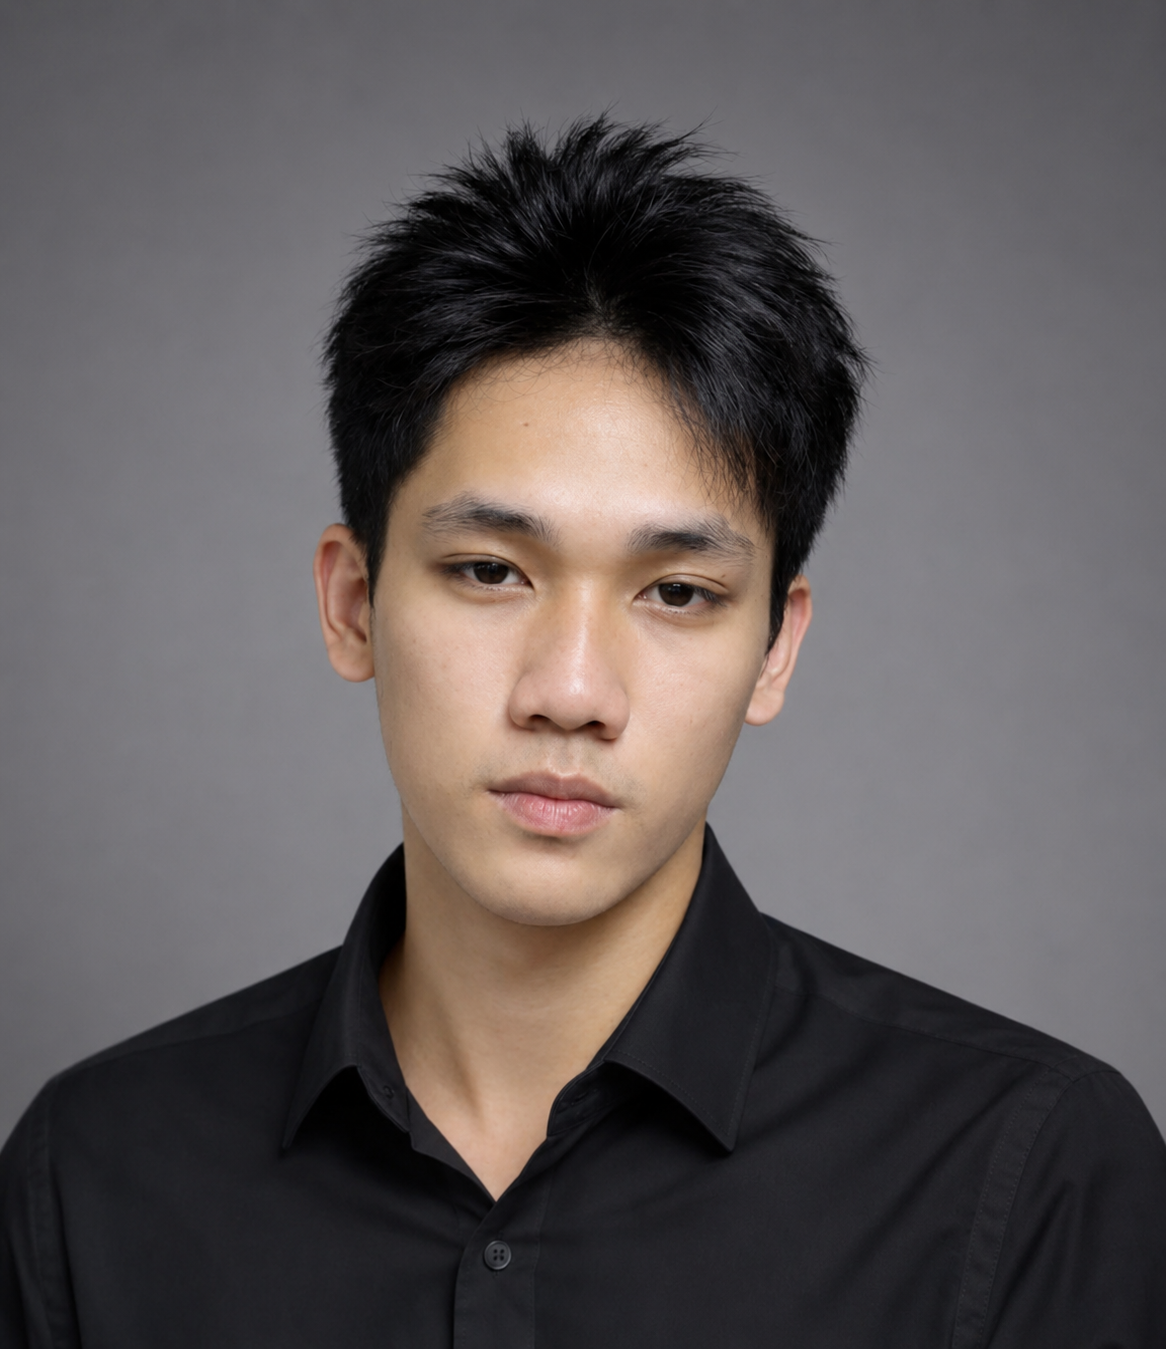
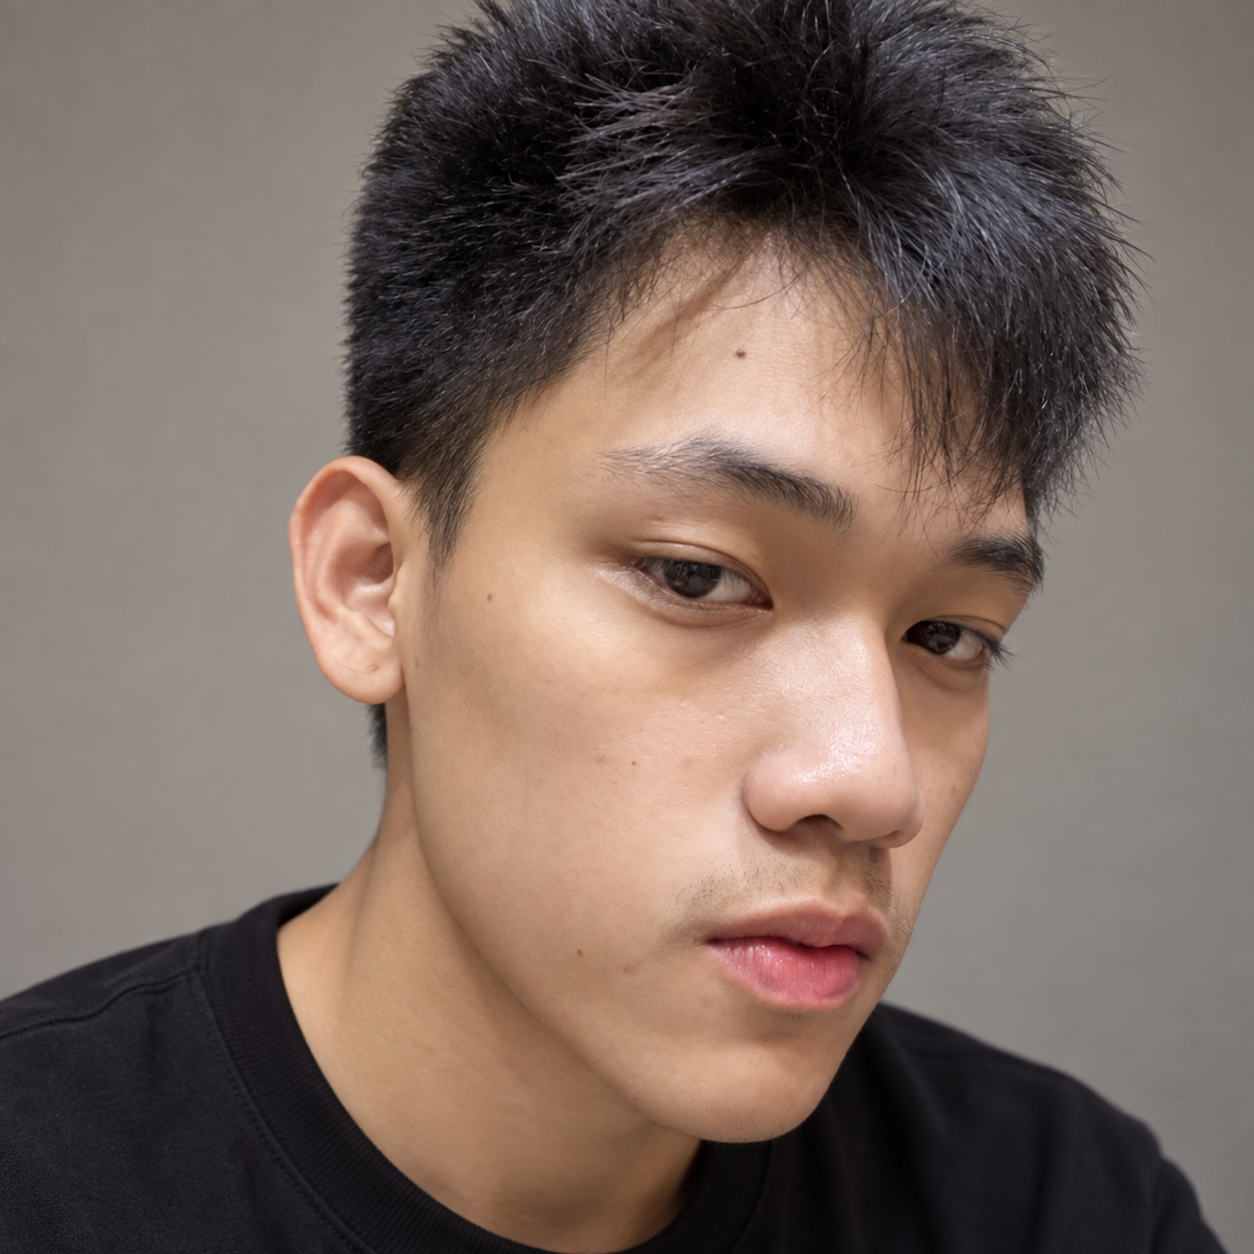
Release 3.8.5 About profile portrait refinement

diff --git a/app/static/css/style.css b/app/static/css/style.css
@@ -1938,20 +1938,37 @@ body{font-size:17px;line-height:1.68}
   .about-capability-grid{grid-template-columns:1fr}
 }
 
-/* 3.8.4 — ABOUT PORTRAIT
-   About-only portrait integration; no global page composition changes. */
+/* 3.8.5 — ABOUT PROFILE PORTRAIT ORGANIZATION
+   About-only portrait replacement and top-profile balance; no unrelated page composition changes. */
 .about-page-hero .about-hero-grid{
   display:grid;
-  grid-template-columns:minmax(0,1fr) 224px;
-  gap:54px;
-  align-items:center;
+  grid-template-columns:minmax(0,1fr) 240px;
+  gap:48px;
+  align-items:start;
   max-width:1000px;
 }
-.about-page-hero .about-hero-copy{min-width:0}
-.about-page-hero .about-hero-copy>p{max-width:650px;margin:0;font-size:17px;line-height:1.62;color:var(--ink-2)}
+.about-page-hero .about-hero-copy{
+  min-width:0;
+  padding-top:8px;
+}
+.about-page-hero .about-hero-copy>p{
+  max-width:650px;
+  margin:0;
+  font-size:17px;
+  line-height:1.62;
+  color:var(--ink-2);
+}
+.about-page-hero .about-hero-copy>p.about-professional-title{
+  margin:0 0 8px;
+  color:var(--navy-deep);
+  font-size:15px;
+  line-height:1.4;
+  font-weight:800;
+  letter-spacing:.01em;
+}
 .about-portrait-frame{
   justify-self:end;
-  width:224px;
+  width:240px;
   margin:0;
   padding:6px;
   border:1px solid var(--line);
@@ -1963,19 +1980,35 @@ body{font-size:17px;line-height:1.68}
   display:block;
   width:100%;
   height:auto;
-  aspect-ratio:1166/1349;
+  aspect-ratio:1/1;
   object-fit:contain;
   border-radius:11px;
 }
 @media(max-width:900px){
-  .about-page-hero .about-hero-grid{grid-template-columns:minmax(0,1fr) 196px;gap:36px}
-  .about-portrait-frame{width:196px}
+  .about-page-hero .about-hero-grid{
+    grid-template-columns:minmax(0,1fr) 214px;
+    gap:32px;
+  }
+  .about-portrait-frame{width:214px}
 }
 @media(max-width:820px){
-  .about-page-hero .about-hero-grid{grid-template-columns:1fr;gap:18px;align-items:start}
-  .about-portrait-frame{justify-self:start;width:180px}
+  .about-page-hero .about-hero-grid{
+    grid-template-columns:1fr;
+    gap:18px;
+    align-items:start;
+  }
+  .about-page-hero .about-hero-copy{padding-top:0}
+  .about-portrait-frame{
+    justify-self:start;
+    width:210px;
+  }
 }
 @media(max-width:430px){
-  .about-portrait-frame{width:164px;padding:5px;border-radius:14px}
+  .about-page-hero .about-hero-copy>p.about-professional-title{font-size:14px}
+  .about-portrait-frame{
+    width:184px;
+    padding:5px;
+    border-radius:14px;
+  }
   .about-portrait{border-radius:9px}
 }

diff --git a/app/templates/about.html b/app/templates/about.html
@@ -4,10 +4,11 @@
   <div class="container simple-page-hero about-hero-grid reveal">
     <div class="about-hero-copy">
       <h1>About Key Castro.</h1>
+      <p class="about-professional-title">Custom Business App Developer &amp; Automation Specialist</p>
       <p>I build custom business systems and automation for real estate, property, and housing businesses.</p>
     </div>
     <figure class="about-portrait-frame">
-      <img class="about-portrait" src="{{ url_for('static', filename='images/about/key-castro.png') }}" alt="Key Castro" width="1166" height="1349" decoding="async">
+      <img class="about-portrait" src="{{ url_for('static', filename='images/about/key-castro.png') }}" alt="Key Castro" width="1254" height="1254" decoding="async">
     </figure>
   </div>
 </section>

diff --git a/tests/test_site.py b/tests/test_site.py
@@ -20,7 +20,7 @@ class PortfolioSiteTests(unittest.TestCase):
         self.assertEqual(data["app"], "Key Castro Portfolio")
         version_file = Path(__file__).resolve().parents[1] / "VERSION.txt"
         self.assertEqual(data["version"], version_file.read_text(encoding="utf-8").strip())
-        self.assertEqual(data["version"], "3.8.4")
+        self.assertEqual(data["version"], "3.8.5")
 
     def test_main_pages_and_template_library_render(self):
         routes = [
@@ -168,6 +168,8 @@ class PortfolioSiteTests(unittest.TestCase):
         self.assertIn(b'class="about-portrait"', about.data)
         self.assertIn(b'alt="Key Castro"', about.data)
         self.assertIn(b'/static/images/about/key-castro.png', about.data)
+        self.assertIn(b'Custom Business App Developer &amp; Automation Specialist', about.data)
+        self.assertIn(b'class="about-professional-title"', about.data)
 
         portrait = self.client.get("/static/images/about/key-castro.png")
         self.assertEqual(portrait.status_code, 200)
@@ -182,8 +184,9 @@ class PortfolioSiteTests(unittest.TestCase):
 
         css_path = Path(__file__).resolve().parents[1] / "app" / "static" / "css" / "style.css"
         css = css_path.read_text(encoding="utf-8")
-        self.assertIn("3.8.4 — ABOUT PORTRAIT", css)
+        self.assertIn("3.8.5 — ABOUT PROFILE PORTRAIT ORGANIZATION", css)
         self.assertIn(".about-page-hero .about-hero-grid", css)
+        self.assertIn(".about-professional-title", css)
         self.assertIn(".about-portrait-frame", css)
 
     def test_compact_presentation_keeps_screenshots_supporting_content(self):

diff --git a/DELIVERY_REPORT.md b/DELIVERY_REPORT.md
@@ -1,25 +1,25 @@
-# DELIVERY REPORT — KEY CASTRO 3.8.4
+# DELIVERY REPORT — KEY CASTRO 3.8.5
 
 ## Scope
 
-Strict update to add the supplied professional portrait to the **About page only**, plus direct CSS, test, version, and deployment-verification dependencies. No other public content or functionality is changed.
+Strict update to replace and properly integrate the approved **About-page portrait only**, plus the direct About-scoped CSS, test, version, and deployment-verification dependencies required for that change.
 
 ## Approved change
 
-- Added the supplied Key Castro portrait to the top About introduction.
-- Used the project static image structure and Flask/Jinja static URL generation.
-- Added responsive About-only styling so the portrait stays proportional and naturally stacked on smaller screens.
-- Added short professional alternative text: **Key Castro**.
-- Preserved all approved About copy, including the business-problem, automation, workflow-consolidation, and subscription-value messaging.
-- Updated direct regression and live deployment checks for the portrait asset.
+- Replaced the previous About portrait with the newly approved user-supplied photo.
+- Kept the portrait inside the existing About introduction and used the project static image structure with Flask/Jinja static URL generation.
+- Added the professional title **Custom Business App Developer & Automation Specialist** directly under “About Key Castro.” so the top profile area clearly presents the owner’s identity.
+- Rebalanced only the About top/profile area: aligned the text and portrait at the top, kept the portrait moderate in size, and preserved clean responsive stacking.
+- Preserved all approved About problem, automation, workflow-consolidation, and subscription-value copy.
+- Updated only direct regression and live-deployment checks for the revised About profile block and portrait asset.
 
 ## Preserved
 
 - Home, Systems, How It Works, Contact, and all three system-detail pages
-- navigation, footer, pricing, business model, published systems, routes, and existing copy
+- navigation, footer, pricing, business model, published systems, routes, and approved About problem/automation content
 - Flask architecture, contact/database flow, private owner Inbox, CSRF/authentication, sitemap, robots, redirects, and deployment architecture
-- existing ivory/navy/sage design outside the new About-only portrait selectors
+- existing ivory/navy/sage design outside the About-specific profile selectors
 
 ## Release rule
 
-Production is not considered 3.8.4 until the one-run deployer verifies the live health version, the existing approved About content, the About portrait markup and asset, the existing footer tagline, the approved How It Works flow/pricing, and all three published systems.
+Production is not considered 3.8.5 until the one-run deployer verifies the live health version, the existing approved About content, the revised About portrait/profile markup and asset, the existing footer tagline, the approved How It Works flow/pricing, and all three published systems.

diff --git a/RELEASE_AUDIT.md b/RELEASE_AUDIT.md
@@ -1,10 +1,11 @@
-# KEY CASTRO WEBSITE 3.8.4 — RELEASE AUDIT
+# KEY CASTRO WEBSITE 3.8.5 — RELEASE AUDIT
 
-- Baseline inspected: v3.8.3 from the user-provided authoritative website ZIP.
-- Scope limited to adding the supplied professional portrait to the **About page only**, plus direct dependencies.
-- The existing About text and approved problem/automation/subscription-value messaging remain unchanged.
-- Portrait source is the user-supplied image; no AI regeneration, facial alteration, background replacement, or aggressive crop was performed.
-- Portrait styling is scoped to `.about-*` selectors and uses the existing ivory/navy/sage design tokens.
+- Baseline inspected: v3.8.4 from the user-provided authoritative website ZIP.
+- Scope limited to replacing the supplied About portrait and correcting only the top About profile organization, plus direct dependencies.
+- The existing approved About problem/automation/subscription-value messaging remains unchanged.
+- Portrait source is the newly approved user-supplied image; no AI regeneration, facial alteration, or content redesign was performed in this website update.
+- Added the professional title **Custom Business App Developer & Automation Specialist** to the same About profile block because the approved top profile presentation required the professional identity to be visible.
+- Portrait/profile styling is scoped to `.about-*` selectors and uses the existing ivory/navy/sage design tokens.
 - No Home, Systems, How It Works, Contact, footer, pricing, route, backend, database, owner-Inbox, published-system, or business-model change.
 - Release ZIP must exclude `.env`, `.owner_inbox.json`, `.git`, databases, logs, caches, backups, tokens, and private runtime data.
-- Live deployment is valid only after production verification confirms version 3.8.4, the About portrait and asset, the unchanged approved About content/footer tagline, the approved How It Works content, and all three published systems.
+- Live deployment is valid only after production verification confirms version 3.8.5, the revised About portrait/profile and asset, the unchanged approved About content/footer tagline, the approved How It Works content, and all three published systems.

diff --git a/DEVELOPER_HANDOFF.md b/DEVELOPER_HANDOFF.md
@@ -1,12 +1,12 @@
 # KEY CASTRO WEBSITE — DEVELOPER HANDOFF
 
-**Release:** 3.8.4
+**Release:** 3.8.5
 **Live URL:** https://keycastro.onrender.com
 **Framework:** Flask
 
 ## Current direction
 
-Version 3.8.4 preserves the approved v3.8.3 site and adds only the supplied Key Castro professional portrait to the About-page introduction. Existing About messaging, footer tagline, navigation, pricing, systems, backend, and private functionality remain unchanged.
+Version 3.8.5 preserves the approved v3.8.4 site and replaces only the About portrait while refining that same top profile block so the portrait and professional title are presented cleanly together. Existing About problem/automation messaging, footer tagline, navigation, pricing, systems, backend, and private functionality remain unchanged.
 
 Primary navigation: **Home · Systems · How It Works · About · Contact**. The underlying `/services` URL remains unchanged.
 
@@ -39,4 +39,4 @@ A non-technical 50–70 year old business owner should understand the basic offe
 
 ## Release workflow
 
-Use the existing one-run updater/deployer. Success requires tests, approved Git staging, both Git pushes, successful Render deploy, and live health/content/portrait verification for version 3.8.4. Never commit private/runtime files.
+Use the existing one-run updater/deployer. Success requires tests, approved Git staging, both Git pushes, successful Render deploy, and live health/content/profile-portrait verification for version 3.8.5. Never commit private/runtime files.

diff --git a/README.md b/README.md
@@ -4,7 +4,7 @@ Professional portfolio and client-acquisition website for **KEY CASTRO — Custo
 
 Official website: https://keycastro.onrender.com
 
-**Current release version: 3.8.4**
+**Current release version: 3.8.5**
 
 ## One project folder
 
@@ -16,7 +16,7 @@ This single Flask codebase contains the public website, published system pages, 
 
 ## Public design rule
 
-Preserve the premium ivory/navy/sage identity, typography, compact spacing, responsive behavior, and five-item navigation. Version 3.8.4 keeps the approved v3.8.3 site and adds only Key Castro’s professional portrait to the About introduction, with portrait styling scoped to the About page.
+Preserve the premium ivory/navy/sage identity, typography, compact spacing, responsive behavior, and five-item navigation. Version 3.8.5 keeps the approved v3.8.4 site and replaces only the About portrait while refining the same top profile block so the portrait and professional title are organized together; styling remains scoped to the About page.
 
 Public rule: **Short. Simple. Clear. No unnecessary repetition.**
 

diff --git a/NEXT_DEVELOPER_READ_THIS_FIRST.md b/NEXT_DEVELOPER_READ_THIS_FIRST.md
@@ -1,6 +1,6 @@
 # NEXT DEVELOPER — READ THIS FIRST
 
-**Release version:** 3.8.4
+**Release version:** 3.8.5
 **Official site:** https://keycastro.onrender.com
 **Framework:** Flask
 
@@ -78,7 +78,7 @@ Do not repeat the full management model on every system page.
 
 ## Design rule
 
-Preserve the existing ivory/navy/sage brand and Human Clarity composition. Version 3.8.4 adds only the supplied professional portrait to the About introduction; its new CSS is scoped to `.about-*` classes. Do not use this release as permission to redesign unrelated pages. Compact must never mean tiny text.
+Preserve the existing ivory/navy/sage brand and Human Clarity composition. Version 3.8.5 replaces only the About portrait and refines that same top profile block, including the visible professional title; its CSS remains scoped to `.about-*` classes. Do not use this release as permission to redesign unrelated pages. Compact must never mean tiny text.
 
 ## Security
 

diff --git a/CHANGELOG.md b/CHANGELOG.md
@@ -1,5 +1,13 @@
 # CHANGELOG
 
+## 3.8.5 — About profile portrait refinement
+
+- Replaced the prior About portrait with the newly approved user-supplied photo.
+- Added **Custom Business App Developer & Automation Specialist** directly under the About heading so the professional identity is visible in the same profile block.
+- Rebalanced only the About top/profile layout so the text and portrait align naturally on desktop and stack cleanly on smaller screens.
+- Preserved every approved About problem/automation/subscription-value section and all unrelated pages, pricing, routes, business logic, backend, and private functionality.
+- Release ZIP continues to exclude private/runtime files.
+
 ## 3.8.4 — About portrait integration
 
 - Added Key Castro’s supplied professional portrait to the About-page introduction only.
